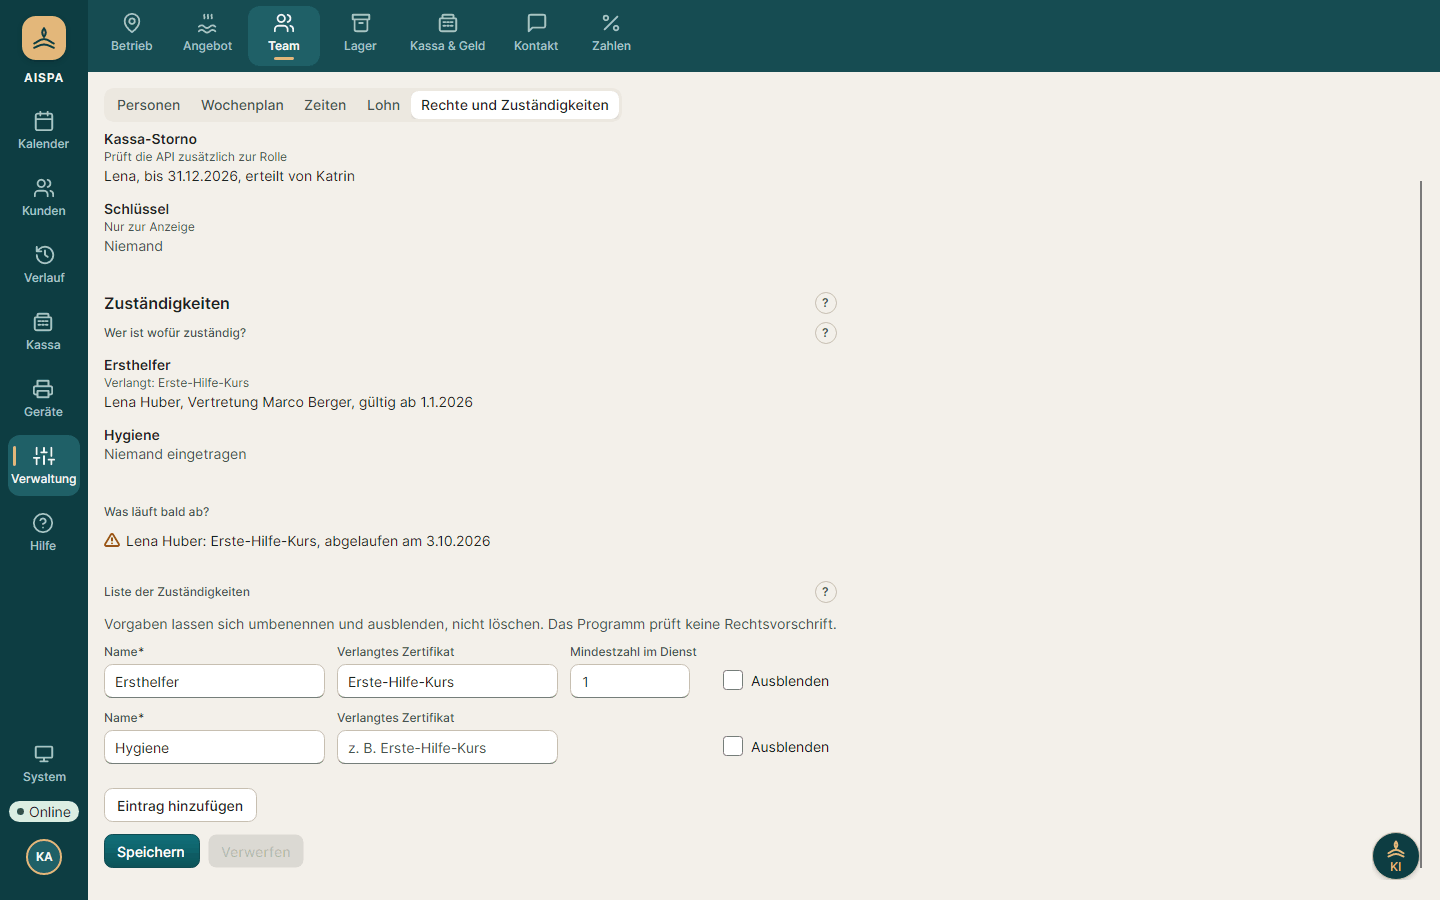
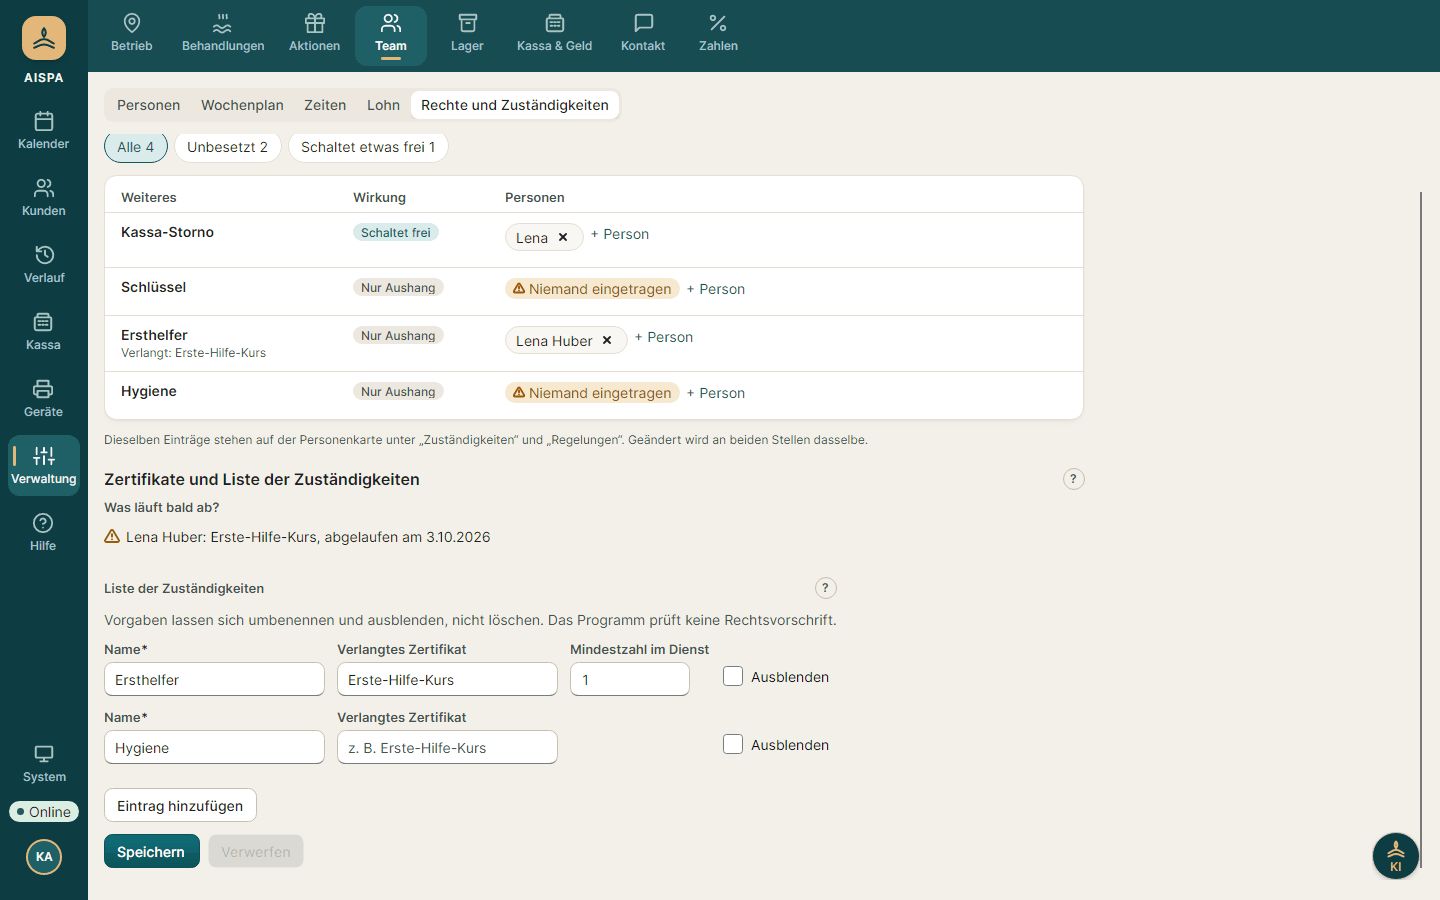
Rechte-Tabelle: Breite, Handbuch und Bilder, Stand und Inventar (P11)

diff --git a/tests/AispaStudio.Desktop.Tests/ViewTests.Rights.cs b/tests/AispaStudio.Desktop.Tests/ViewTests.Rights.cs
@@ -109,4 +109,32 @@ public sealed partial class ViewTests
             Assert.Equal(3, team.Powers!.Groups.Sum(g => g.Rows.Count));
             return team;
         }, RightsApi());
+
+    [Fact]
+    public Task Verwaltung_Team_Wer_darf_was_Plus_Person_oeffnet_die_Auswahl_und_traegt_die_Person_ueber_den_Endpunkt_der_Karte_ein()
+    {
+        var api = RightsApi();
+        return Render("hell", "verwaltung-team-wer-darf-was-plus-person", async (window, main) =>
+        {
+            var team = await OpenRights(window, main);
+            foreach (var id in team.Entries.Select(e => e.EmployeeId).OfType<Guid>())
+            {
+                api.On($"POST /api/employees/{id}/regulations/powers", new StaffPowerDto(Guid.NewGuid(), id, StaffPowerKind.Safe, "Tresor", new DateOnly(2026, 11, 17), null, "Katrin", false));
+            }
+
+            var tresor = team.Powers!.Groups.SelectMany(g => g.Rows).Single(r => r.Name == "Tresor");
+            ClickCenter(window, ButtonByName(window, "Person für Tresor eintragen"));
+            await Pump(Settling);
+
+            var items = window.GetVisualDescendants().OfType<MenuItem>().Where(i => i.IsEffectivelyVisible).ToList();
+            Assert.Equal(tresor.Candidates.Select(c => c.Name), items.Select(i => i.Header));
+            SaveShot(window, "verwaltung-team-wer-darf-was-plus-person", "hell");
+            ClickCenter(window, items[0]);
+            await Pump(Settling);
+
+            Assert.Single(api.Calls, c => c.Route.StartsWith("POST /api/employees/", StringComparison.Ordinal) && c.Route.EndsWith("/regulations/powers", StringComparison.Ordinal));
+            await RosterTests.Until(() => team.Powers.StatusText == "Eingetragen.");
+            return team;
+        }, api);
+    }
 }

diff --git a/web/src/help/content/zustaendigkeiten-zertifikate.md b/web/src/help/content/zustaendigkeiten-zertifikate.md
@@ -8,7 +8,7 @@ stichwoerter: Zuständigkeit, Ersthelfer, Ersthelferin, Erste Hilfe, Sicherheits
 ---
 # Zuständigkeiten und Zertifikate
 
-Wer ist Ersthelferin, wer kümmert sich um das Lager, wessen Erste-Hilfe-Kurs läuft bald ab? In der Windows-App liegt das im Bereich **Verwaltung** › **Team**: auf der Karte einer Person im Bereich **Profil**, Abschnitt **Zuständigkeiten**, und für alle zusammen in der Ansicht **Rechte und Zuständigkeiten**, Abschnitt **Zuständigkeiten**. Nur Inhaber und Manager sehen und ändern beides.
+Wer ist Ersthelferin, wer kümmert sich um das Lager, wessen Erste-Hilfe-Kurs läuft bald ab? In der Windows-App liegt das im Bereich **Verwaltung** › **Team**: auf der Karte einer Person im Bereich **Profil**, Abschnitt **Zuständigkeiten**, und für alle zusammen in der Ansicht **Rechte und Zuständigkeiten**: die Tabelle **Wer darf was, wer ist zuständig?** zeigt, wer wofür zuständig ist, darunter stehen **Zertifikate und Liste der Zuständigkeiten**. Nur Inhaber und Manager sehen und ändern beides.
 
 > Hinweis: Das Programm prüft keine Rechtsvorschrift. Wie viele Ersthelferinnen, Brandschutzbeauftragte oder Sicherheitsvertrauenspersonen ein Spa braucht, legt die Leitung selbst fest. Die App erinnert und warnt nur nach den Angaben in der Liste.
 
@@ -53,11 +53,11 @@ Ein Zertifikat in der Erinnerungsfrist zeigt „Läuft am … ab“, ein abgelau
 
 ## Wer ist wofür zuständig? {#uebersicht}
 
-Der Abschnitt **Zuständigkeiten** in der Ansicht **Rechte und Zuständigkeiten** zeigt je Eintrag der Liste, wer zuständig ist, mit Vertretung und Gültigkeit. Steht niemand dabei, heißt es „Niemand eingetragen“. Abgelaufene Zuständigkeiten stehen ausgegraut. Ändern lassen sie sich auf der Karte der Person.
+Wer wofür zuständig ist, steht in der Tabelle **Wer darf was, wer ist zuständig?** oben in der Ansicht **Rechte und Zuständigkeiten**, zusammen mit den Vollmachten und nach Themen geordnet. Steht niemand in der Zeile, heißt es „Niemand eingetragen“. **+ Person** trägt jemanden ein, das Kreuz am Kennzeichen entfernt die Person; Vertretung und Gültigkeit pflegt die Karte der Person. Siehe [Regelungen und Vollmachten](hilfe:regelungen-vollmachten#wer-darf-was).
 
-Darunter nennt **Was läuft bald ab?** alle Zertifikate aktiver Personen in der Erinnerungsfrist und die abgelaufenen, die noch nicht erneuert sind, nach Datum.
+Der Abschnitt **Zertifikate und Liste der Zuständigkeiten** darunter nennt unter **Was läuft bald ab?** alle Zertifikate aktiver Personen in der Erinnerungsfrist und die abgelaufenen, die noch nicht erneuert sind, nach Datum.
 
-![Abschnitt Zuständigkeiten der Ansicht Rechte und Zuständigkeiten mit Ersthelfer, Hygiene und einem abgelaufenen Kurs](images/app/verwaltung-team-zustaendigkeiten.png)
+![Abschnitt Zertifikate und Liste der Zuständigkeiten mit einem abgelaufenen Kurs und der Mindestzahl Ersthelfer](images/app/verwaltung-team-zustaendigkeiten.png)
 
 ## Liste der Zuständigkeiten {#liste}
 

diff --git a/docs/umsetzung/masken-inventar.md b/docs/umsetzung/masken-inventar.md
@@ -90,7 +90,7 @@ Ziel nach [ADR 0098](../entscheidungen/0098-verwaltungsmasken-eine-schiene-ueber
 | --- | --- | --- | --- |
 | Betrieb | 6 Masken | 5 Masken (Schließzeiten und Raumsperren auf einer Seite) | T-064, 16.11.2026 (PR offen); P2 (17.11.2026): eine Liste statt zwei Abschnitten, Formular als Seitenleiste, Nachtrag zu ADR 0098 |
 | Angebot (seit 17.11.2026: Behandlungen und Aktionen als zwei Gruppen) | 2 Masken; Behandlung mit 7 Abschnittsreitern | 2 Gruppen mit je einer Maske, keine Reiterzeile; Behandlung mit 4 Bereichen (Übersicht · Grunddaten und Preis · Durchführung · Qualifikationen und Räume) | Schritt 3 (Behandlung, 16.11.2026); P3 (17.11.2026): acht Gruppen, Übersicht, Nachtrag zu ADR 0098; P4 (17.11.2026): Aktionen mit drei Arten, Nachtrag zu ADR 0071 |
-| Team | 7 Ansichten; Personenkarte mit 10 Reitern | 5 Ansichten; Personenkarte mit 4 Bereichen, Verlauf als Seitenleiste | Personenkarte umgesetzt (T-065, 16.11.2026); Ansichten umgesetzt (T-066, 16.11.2026): Personen · Wochenplan · Zeiten · Lohn · Rechte und Zuständigkeiten, „Anträge“ als Seitenleiste im Wochenplan; Personenkarte und Liste neu geordnet (P5, 17.11.2026): fester Kopf mit Menü „⋯“, Abschnitte als Karten, Schalter und Chips, Regelarbeitszeit im Bereich „Arbeitszeit“, Liste mit festen Knöpfen, Standort-Chips und Kennzeichen nur bei Abweichung |
+| Team | 7 Ansichten; Personenkarte mit 10 Reitern | 5 Ansichten; Personenkarte mit 4 Bereichen, Verlauf als Seitenleiste | Personenkarte umgesetzt (T-065, 16.11.2026); Ansichten umgesetzt (T-066, 16.11.2026): Personen · Wochenplan · Zeiten · Lohn · Rechte und Zuständigkeiten, „Anträge“ als Seitenleiste im Wochenplan; Personenkarte und Liste neu geordnet (P5, 17.11.2026): fester Kopf mit Menü „⋯“, Abschnitte als Karten, Schalter und Chips, Regelarbeitszeit im Bereich „Arbeitszeit“, Liste mit festen Knöpfen, Standort-Chips und Kennzeichen nur bei Abweichung; Rechte und Zuständigkeiten als Tabelle (P11, 17.11.2026): eine Tabelle nach Themen mit Wirkung und Personen als Kennzeichen, „+ Person“ und „✕“ in der Zeile, darunter „Zertifikate und Liste der Zuständigkeiten“ |
 | Lager | 9 Reiter | 4 Reiter (Übersicht mit Verbrauch, Bestand mit den Ansichten Material, Chargen und Bewegungen, Bestellen, Inventur), dazu die Seite „Einrichtung“ mit Lagerorten und Lieferanten | T-061, Schritt 2 (Pull Request offen); Export als Dialog statt Menü mit zehn Zeilen: P7, 17.11.2026 (Pull Request offen); Verbrauch als Tabelle bis 900 breit mit Abweichung in Menge und Prozent, Standard nur Abweichungen, Behandlungen zum Aufklappen: P6, 17.11.2026 (Pull Request offen) |
 | Kassa & Geld | 4 Masken | 4 Masken | T-064, 16.11.2026 (PR offen): Warnungen oben |
 | Kontakt | 3 Masken | 3 Masken | T-064, 16.11.2026 (PR offen): Erinnerungen 3 : 2, Warnung oben |

diff --git a/web/src/help/content/team.md b/web/src/help/content/team.md
@@ -34,8 +34,8 @@ In der Windows-App gilt ein **Speichern** unten für die ganze Karte, aus allen 
 - **Anträge**: Schaltfläche im **Wochenplan** mit der Zahl der offenen Abwesenheitsanträge aus der Handy-App. Sie öffnet die Anträge als Seitenleiste rechts, für alle, die Standorte verwalten. Siehe [Abwesenheitsantrag genehmigen oder ablehnen](hilfe:dienstplan-antrag-entscheiden).
 - **Lohn**: die Monatswerte aller Mitarbeitenden, der Export für die Lohnverrechnung und deren Einstellungen, für alle, die die Organisation verwalten, und lesend für das Backoffice. Die Personalnummer steht auf der Karte der Person im Bereich **Lohn und Akte**. Siehe [Lohnexport für den Monat erstellen](hilfe:lohn-export-erstellen).
 - **Personalakte**: Abschnitt im Bereich **Lohn und Akte** auf der Karte einer Person mit Mitarbeitergesprächen, Anmerkungen und Verwarnungen, nur für Inhaber und Manager. Siehe [Personalakte](hilfe:personalakte).
-- **Regelungen und Vollmachten**: Abschnitt im Bereich **Lohn und Akte** auf der Karte einer Person mit Hinweisen, Sonderregelungen und Vollmachten, nur für Inhaber und Manager. Die Ansicht **Rechte und Zuständigkeiten** zeigt im Abschnitt **Wer darf was?** alle Vollmachten auf einen Blick. Siehe [Regelungen und Vollmachten](hilfe:regelungen-vollmachten).
-- **Zuständigkeiten**: Abschnitt im Bereich **Profil** auf der Karte einer Person mit Zuständigkeiten wie Ersthelfer oder Lager und den Zertifikaten mit Ablauf und Scan, nur für Inhaber und Manager. Der gleichnamige Abschnitt der Ansicht **Rechte und Zuständigkeiten** zeigt, wer wofür zuständig ist, was bald abläuft, und die Liste der Zuständigkeiten. Siehe [Zuständigkeiten und Zertifikate](hilfe:zustaendigkeiten-zertifikate).
+- **Regelungen und Vollmachten**: Abschnitt im Bereich **Lohn und Akte** auf der Karte einer Person mit Hinweisen, Sonderregelungen und Vollmachten, nur für Inhaber und Manager. Die Ansicht **Rechte und Zuständigkeiten** zeigt in der Tabelle **Wer darf was, wer ist zuständig?** alle Vollmachten und Zuständigkeiten auf einen Blick; **+ Person** trägt jemanden ein. Siehe [Regelungen und Vollmachten](hilfe:regelungen-vollmachten).
+- **Zuständigkeiten**: Abschnitt im Bereich **Profil** auf der Karte einer Person mit Zuständigkeiten wie Ersthelfer oder Lager und den Zertifikaten mit Ablauf und Scan, nur für Inhaber und Manager. Die Ansicht **Rechte und Zuständigkeiten** zeigt in der Tabelle, wer wofür zuständig ist, darunter was bald abläuft und die Liste der Zuständigkeiten. Siehe [Zuständigkeiten und Zertifikate](hilfe:zustaendigkeiten-zertifikate).
 
 Die Rezeption und Therapeutinnen sehen nur den **Wochenplan**, ohne Personenliste und ohne Karten. Gibt es nur eine Ansicht, fehlt die Leiste.
 

diff --git a/docs/stand-und-offene-punkte.md b/docs/stand-und-offene-punkte.md
@@ -142,6 +142,7 @@ Stand: 20.10.2026, nach PR #172; Übergabe an Claude Code ([ADR 0046](entscheidu
 | Lager: Bestand je Standort, Verbrauch laut Rezeptur, Verkauf an der Kassa, Inventur, Umbuchung, Bestellvorschlag, Bestellungen an Lieferanten mit Teillieferung, Chargen und Ablaufdaten, Rückverfolgung je Charge bis zum Kunden | fertig | #52, #67, #77, #91 |
 | Lager-Export als Dialog (P7, 17.11.2026): Inhalt (Bestand je Lagerort, Lagerbewegungen, Bestellungen, Ablaufliste, Inventur) als Optionsfelder, Format Excel oder CSV (gemerkt), Zeitraum bei den Lagerbewegungen, gesperrte Listen mit Grund aus `GET /api/stock/locations/{id}/export/availability`, Toast „Gespeichert: …“ mit „Ordner öffnen“, Exportfehler mit eigenem Titel statt „Nicht gebucht“; alle fünf Listen in Excel und CSV gegen das Beispiel-Spa getestet | fertig (nicht in der laufenden App unter Windows geprüft) | P7 |
 | Lager, Verbrauch als Tabelle (P6, 17.11.2026): höchstens 900 breit, Spalten Material, Soll, Ist, Abweichung (Menge und Prozent) und „Wert der Abweichung“, als Standard nur Abweichungen („Nur Abweichungen“, „Alle zeigen“), Behandlungen je Material zum Aufklappen, Summe nur in der Kachel; die API sortiert nach dem Wert und liefert `ExcessPercent` (optional, ADR 0085 §3) | fertig (Pull Request offen) | P6 |
+| Rechte und Zuständigkeiten als Tabelle (P11, 17.11.2026): „Wer darf was?“ und die Zuständigkeiten stehen in einer Tabelle nach Themen (Kassa und Geld, Lager, Sicherheit und Vertretung, Weiteres) mit Hinweis, Wirkung („Schaltet frei“ oder „Nur Aushang“) und den Personen als Kennzeichen; „+ Person“ und „✕“ in der Zeile rufen dieselben Endpunkte wie die Personenkarte, „Unbesetzt“ als Warnkennzeichen und Filter, Standortwahl im Kopf; die API liefert Thema, Hinweis, Wirkung und „Unbesetzt“ als optionale Felder der beiden vorhandenen Übersichten, `locationId` begrenzt auf die Personen des Standorts | fertig | PR offen |
 | „Mein Tag“: Handy-App für Therapeut:innen (Tagesplan, Vorbereitung, offline lesbar; Stempeluhr seit T-015 entfernt) | fertig (ohne Push) | #41 |
 | Kartenhinterlegung und Ausfallgebühr (No-Show-Schutz), Beleg über die Kassa | fertig | #53 |
 | Rückerstattung online bezahlter Gutscheine und Ausfallgebühren nach Storno an der Kassa | fertig (nur voller Betrag) | #57 |

diff --git a/web/src/help/content/regelungen-vollmachten.md b/web/src/help/content/regelungen-vollmachten.md
@@ -43,7 +43,17 @@ Die übrigen Vollmachten zeigen nur, wer zuständig ist: Kassa-Abschluss, Tresor
 
 ## Wer darf was? {#wer-darf-was}
 
-**Verwaltung** › **Team** › **Rechte und Zuständigkeiten**, Abschnitt **Wer darf was?**, zeigt je Vollmacht, wer sie hat, bis wann und wer sie erteilt hat. Abgelaufene Vollmachten stehen ausgegraut dabei. Ändern lassen sie sich auf der Karte der Person.
+**Verwaltung** › **Team** › **Rechte und Zuständigkeiten** zeigt oben die Tabelle **Wer darf was, wer ist zuständig?**: Vollmachten und Zuständigkeiten stehen zusammen, nach Themen geordnet (Kassa und Geld, Lager, Sicherheit und Vertretung, Weiteres). Jede Zeile hat drei Angaben:
+
+- **Name und Hinweis**: wofür die Aufgabe da ist, bei Zuständigkeiten mit dem verlangten Zertifikat.
+- **Wirkung**: „Schaltet frei“ heißt, die App prüft die Vollmacht zusätzlich zur Rolle (Kassa-Storno, Bestellungen auslösen). „Nur Aushang“ heißt, der Eintrag zeigt nur, wer zuständig ist. Zuständigkeiten, die in der App etwas tun, sagen es dort: „Warnt im Dienstplan“ beim Ersthelfer, „Erinnert an Bestellungen und Ablauf“ beim Lager.
+- **Personen**: die eingetragenen Personen als Kennzeichen. Abgelaufene stehen ausgegraut mit „abgelaufen am …“; wer sie erteilt hat und bis wann, steht im Hinweis am Kennzeichen. Steht niemand in der Zeile, zeigt ein Warnkennzeichen „Niemand eingetragen“.
+
+**+ Person** trägt eine Person ein (ab heute, ohne Ende), das Kreuz am Kennzeichen entfernt sie nach Rückfrage. Dasselbe steht auf der Karte der Person unter **Regelungen und Vollmachten** bzw. **Zuständigkeiten**; geändert wird an beiden Stellen dasselbe. Befristung, Vertretung und Zertifikate pflegt die Karte.
+
+Über der Tabelle zeigen die Filter **Alle**, **Unbesetzt** und **Schaltet etwas frei** jeweils die Zahl der Zeilen. Gibt es mehr als einen Standort, begrenzt die Standortauswahl im Kopf die Tabelle auf die Personen, die dort arbeiten; „Unbesetzt“ gilt dann für diesen Standort.
+
+![Tabelle Wer darf was, wer ist zuständig? mit Themen, Wirkung und Personen](images/app/verwaltung-team-wer-darf-was.png)
 
 ## Verlauf {#verlauf}
 

diff --git a/docs/entscheidungen/0098-verwaltungsmasken-eine-schiene-uebersicht-seitenleiste.md b/docs/entscheidungen/0098-verwaltungsmasken-eine-schiene-uebersicht-seitenleiste.md
@@ -137,6 +137,8 @@ Die Zeile „Betrieb: Schließzeiten und Raumsperren stehen auf einer Seite“ g
 
 **Begründung.** Die Regelarbeitszeit gehört zur Planung, nicht zu den Stammdaten; im Profil lag sie unter Sprachen und wurde übersehen. Ein fester Kopf hält Name und Menü im Bild, während man durch die Bereiche rollt. Das Kennzeichen nur bei Abweichungen entlastet die Liste: Wer normal angemeldet ist, braucht keinen Zusatz.
 
+**Nachtrag P11 (17.11.2026): Rechte und Zuständigkeiten als Tabelle.** Die Ansicht „Rechte und Zuständigkeiten“ zeigt oben eine Tabelle „Wer darf was, wer ist zuständig?“ statt der beiden Textlisten: Vollmachten und Zuständigkeiten stehen zusammen, nach Themen geordnet (Kassa und Geld, Lager, Sicherheit und Vertretung, Weiteres), je Zeile mit Hinweis, Wirkung („Schaltet frei“ oder „Nur Aushang“) und den eingetragenen Personen als Kennzeichen. „+ Person“ und „✕“ in der Zeile rufen dieselben Endpunkte wie die Personenkarte (`…/regulations/powers`, `…/duties`), damit beide Stellen dasselbe ändern. Was unbesetzt ist, steht als Warnkennzeichen in der Zeile und als Zahl an einem Filter; bei mehr als einem Standort wählt der Kopf den Standort. Darunter steht der Abschnitt „Zertifikate und Liste der Zuständigkeiten“ (was bald abläuft, Liste pflegen). Die Texte „Prüft die API zusätzlich zur Rolle“ und „Nur zur Anzeige“ entfallen. Die API liefert Thema, Hinweis, Wirkung und „Unbesetzt“ als optionale Felder der vorhandenen Übersichten (kein zweiter Endpunkt, [ADR 0085](0085-api-version-in-den-pfaden.md) §3).
+
 ## Quellen
 
 - Rückmeldung des Auftraggebers vom 16.11.2026 mit Bild der Personenkarte, Auftrag vom selben Tag
